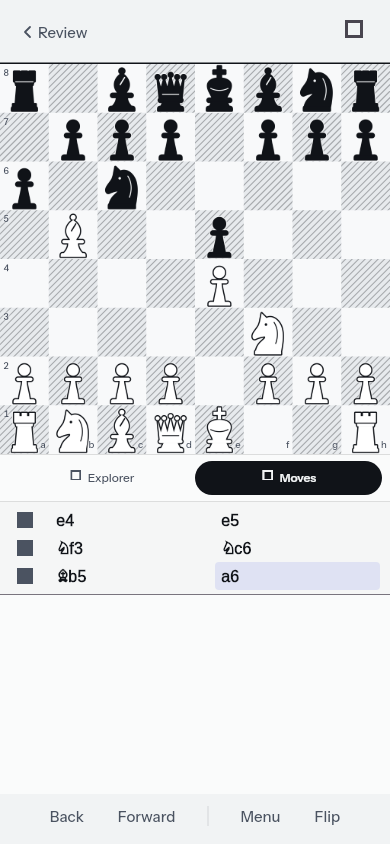
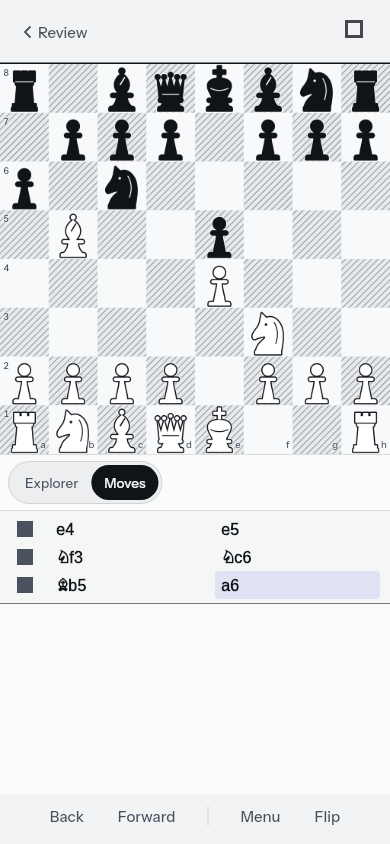
feat(analysis): tab strip becomes a segmented switch
The Material TabBar (with its Lichess icon vocabulary) is replaced by an
SrsSegmented driving the same TabController: taps animate to the page,
swipes report back through the controller, null controllers fall back to
the DefaultTabController ancestor per the documented contract. The
swipeable TabBarView is untouched.

Analysis goldens regenerated (the strip is visible in them); the hub was
regenerated by the same capture run but reverted — untouched surface.

Verified by targeted tests only (full suite is CI's job).

Changed region(s): [[0.4923, 0.5237, 0.9846, 0.7085], [0.0308, 0.5237, 0.4308, 0.7085]]

diff --git a/lib/src/view/analysis/analysis_layout.dart b/lib/src/view/analysis/analysis_layout.dart
@@ -1,6 +1,6 @@
 import 'package:chess_srs/l10n/l10n.dart';
 import 'package:chess_srs/src/constants.dart';
-import 'package:chess_srs/src/design/tokens.dart';
+import 'package:chess_srs/src/design/design.dart';
 import 'package:chess_srs/src/model/settings/board_preferences.dart';
 import 'package:chess_srs/src/styles/styles.dart';
 import 'package:chess_srs/src/utils/l10n_context.dart';
@@ -495,56 +495,26 @@ class _AnalysisTabView extends StatelessWidget {
                 bottom: BorderSide(color: srs?.hairline ?? Theme.of(context).dividerColor),
               ),
             ),
-            child: TabBar(
-              controller: controller,
-              indicator: BoxDecoration(
-                color: srs?.ink ?? ColorScheme.of(context).primary,
-                borderRadius: BorderRadius.circular(999),
-              ),
-              indicatorSize: TabBarIndicatorSize.tab,
-              dividerColor: Colors.transparent,
-              labelColor: srs?.ground ?? ColorScheme.of(context).onPrimary,
-              unselectedLabelColor: srs?.ink2 ?? ColorScheme.of(context).onSurfaceVariant,
-              labelStyle: const TextStyle(
-                fontFamily: SrsText.ui,
-                fontSize: 12,
-                fontWeight: FontWeight.w600,
-                letterSpacing: -0.1,
-              ),
-              unselectedLabelStyle: const TextStyle(
-                fontFamily: SrsText.ui,
-                fontSize: 12,
-                fontWeight: FontWeight.w500,
-                letterSpacing: -0.1,
-              ),
-              tabs: tabs!
-                  .map(
-                    (tab) => Tooltip(
-                      message: tab.l10n(context.l10n),
-                      child: Semantics(
-                        label: tab.l10n(context.l10n),
-                        child: Tab(
-                          height: 32,
-                          child: Row(
-                            mainAxisAlignment: MainAxisAlignment.center,
-                            mainAxisSize: MainAxisSize.min,
-                            children: [
-                              Icon(tab.icon, size: 14),
-                              const SizedBox(width: 5),
-                              Flexible(
-                                child: Text(
-                                  tab.shortLabel(context.l10n),
-                                  maxLines: 1,
-                                  overflow: TextOverflow.ellipsis,
-                                ),
-                              ),
-                            ],
-                          ),
-                        ),
-                      ),
+            // A segmented switch instead of the Material tab bar: same tabs, same swipeable
+            // pages below, no icon vocabulary. The controller animates on tap and reports
+            // swipes back through the same object, so both directions stay in sync.
+            child: Align(
+              alignment: Alignment.centerLeft,
+              child: Builder(
+                builder: (context) {
+                  final ctrl = controller ?? DefaultTabController.of(context);
+                  return AnimatedBuilder(
+                    animation: ctrl,
+                    builder: (context, _) => SrsSegmented<int>(
+                      options: {
+                        for (var i = 0; i < tabs!.length; i++) i: tabs![i].shortLabel(context.l10n),
+                      },
+                      value: ctrl.index,
+                      onChanged: ctrl.animateTo,
                     ),
-                  )
-                  .toList(),
+                  );
+                },
+              ),
             ),
           ),
         Expanded(

diff --git a/test/view/analysis/analysis_layout_test.dart b/test/view/analysis/analysis_layout_test.dart
@@ -2,6 +2,7 @@ import 'dart:convert';
 import 'dart:math';
 
 import 'package:chess_srs/src/constants.dart';
+import 'package:chess_srs/src/design/design.dart';
 import 'package:chess_srs/src/model/settings/board_preferences.dart';
 import 'package:chess_srs/src/model/settings/preferences_storage.dart';
 import 'package:chess_srs/src/view/analysis/analysis_layout.dart';
@@ -178,4 +179,49 @@ void main() {
       );
     }
   }, variant: kPlatformVariant);
+
+  testWidgets('tab strip is a segmented switch and taps change the page', (
+    WidgetTester tester,
+  ) async {
+    // The Material tab bar (with its icon vocabulary) is gone: one segmented control
+    // over the same swipeable pages. Fails on base, which built a TabBar.
+    //
+    // The App flavour of the harness, not the bare MaterialApp: the strip reads
+    // localized tab labels, and only the App wrapper provides the delegates.
+    final app = await makeTestProviderScopeApp(
+      tester,
+      home: DefaultTabController(
+        length: 2,
+        child: AnalysisLayout(
+          pov: Side.white,
+          sideToMove: Side.white,
+          tabs: const [AnalysisTab.moves, AnalysisTab.explorer],
+          boardBuilder: (context, boardSize, boardRadius) {
+            return StaticChessboard(
+              size: boardSize,
+              fen: 'rnbqkbnr/pppppppp/8/8/8/8/PPPPPPPP/RNBQKBNR',
+              orientation: Side.white,
+            );
+          },
+          bottomBar: const SizedBox(height: kBottomBarHeight),
+          children: const [
+            Center(child: Text('Moves page')),
+            Center(child: Text('Explorer page')),
+          ],
+        ),
+      ),
+    );
+    await tester.pumpWidget(app);
+    await tester.pumpAndSettle();
+
+    expect(find.byType(TabBar), findsNothing);
+    expect(find.byType(TabBarView), findsOneWidget);
+    expect(find.text('Explorer'), findsOneWidget);
+    expect(find.byType(SrsSegmented<int>), findsOneWidget);
+    expect(find.text('Moves page'), findsOneWidget);
+
+    await tester.tap(find.text('Explorer'));
+    await tester.pumpAndSettle();
+    expect(find.text('Explorer page'), findsOneWidget);
+  });
 }
